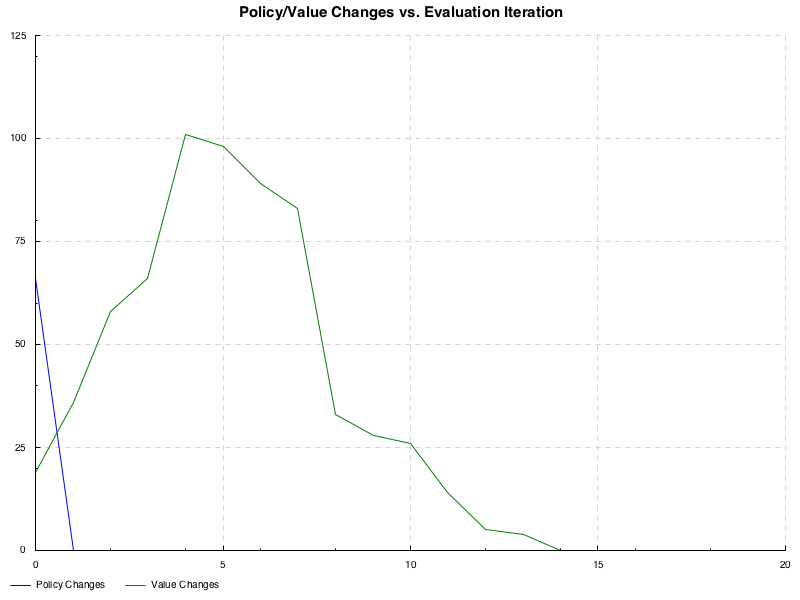
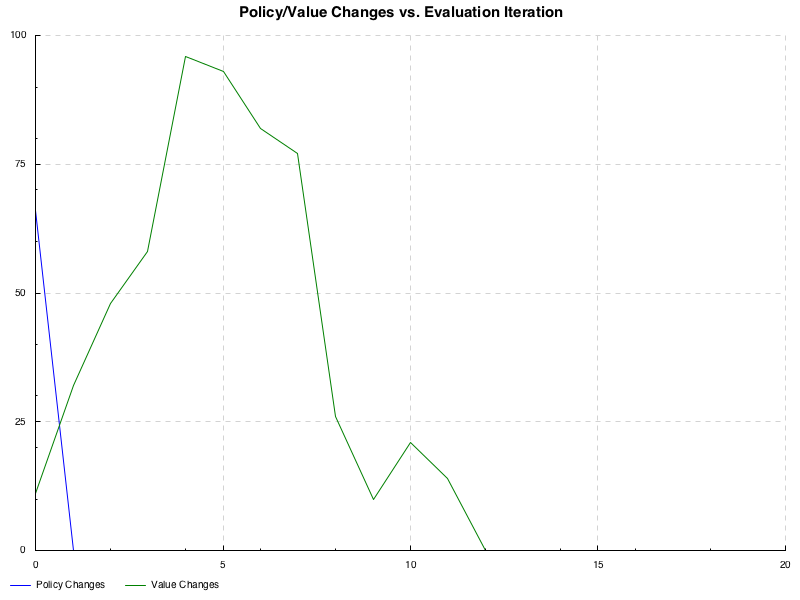
Before making some major changes to reward calculation, as per Ramki.

diff --git a/inventory.html b/inventory.html
@@ -126,35 +126,35 @@ Original date: June 14, 2018</p>
 <a class="sourceLine" id="cb4-57" data-line-number="57"><span class="co">-- | S&#39;(s, a)</span></a>
 <a class="sourceLine" id="cb4-58" data-line-number="58"><span class="ot">nextStates&#39; ::</span> <span class="dt">MyState</span> <span class="ot">-&gt;</span> <span class="dt">MyAction</span> <span class="ot">-&gt;</span> [<span class="dt">MyState</span>]</a>
 <a class="sourceLine" id="cb4-59" data-line-number="59">nextStates&#39; <span class="dt">MyState</span>{<span class="fu">..</span>} toOrder <span class="fu">=</span></a>
-<a class="sourceLine" id="cb4-60" data-line-number="60">  [ <span class="dt">MyState</span> (min gMaxOnHand (onHand <span class="fu">+</span> P.head onOrder <span class="fu">-</span> sold))</a>
-<a class="sourceLine" id="cb4-61" data-line-number="61">            (P.tail onOrder <span class="fu">++</span> [toOrder])</a>
-<a class="sourceLine" id="cb4-62" data-line-number="62">            (epoch <span class="fu">+</span> <span class="dv">1</span>)</a>
-<a class="sourceLine" id="cb4-63" data-line-number="63">  <span class="fu">|</span> sold <span class="ot">&lt;-</span> [<span class="dv">0</span><span class="fu">..</span>onHand]</a>
-<a class="sourceLine" id="cb4-64" data-line-number="64">  <span class="co">-- | sold &lt;- [min onHand 1]</span></a>
-<a class="sourceLine" id="cb4-65" data-line-number="65">  ]</a>
-<a class="sourceLine" id="cb4-66" data-line-number="66"></a>
-<a class="sourceLine" id="cb4-67" data-line-number="67"><span class="co">-- | R(s, a, s&#39;)</span></a>
-<a class="sourceLine" id="cb4-68" data-line-number="68"><span class="co">--</span></a>
-<a class="sourceLine" id="cb4-69" data-line-number="69"><span class="co">-- Returns a list of pairs, each containing:</span></a>
-<a class="sourceLine" id="cb4-70" data-line-number="70"><span class="co">-- - a reward value, and</span></a>
-<a class="sourceLine" id="cb4-71" data-line-number="71"><span class="co">-- - the probability of occurence for that value.</span></a>
+<a class="sourceLine" id="cb4-60" data-line-number="60">  <span class="kw">if</span> length (filter (<span class="fu">&gt;</span> <span class="dv">0</span>) nextOnOrder) <span class="fu">&gt;</span> <span class="dv">1</span></a>
+<a class="sourceLine" id="cb4-61" data-line-number="61">    <span class="kw">then</span> P.error <span class="st">&quot;nextStates&#39;: Found more than one non-zero entries in next onOrder list!&quot;</span></a>
+<a class="sourceLine" id="cb4-62" data-line-number="62">    <span class="kw">else</span> [ <span class="dt">MyState</span> (onHand <span class="fu">+</span> P.head onOrder <span class="fu">-</span> sold)</a>
+<a class="sourceLine" id="cb4-63" data-line-number="63">                   nextOnOrder</a>
+<a class="sourceLine" id="cb4-64" data-line-number="64">                   (epoch <span class="fu">+</span> <span class="dv">1</span>)</a>
+<a class="sourceLine" id="cb4-65" data-line-number="65">         <span class="fu">|</span> sold <span class="ot">&lt;-</span> [<span class="dv">0</span><span class="fu">..</span>onHand]</a>
+<a class="sourceLine" id="cb4-66" data-line-number="66">         , <span class="kw">let</span> onHand&#39; <span class="fu">=</span> onHand <span class="fu">+</span> P.head onOrder <span class="fu">-</span> sold</a>
+<a class="sourceLine" id="cb4-67" data-line-number="67">         , onHand&#39; <span class="fu">&lt;=</span> gMaxOnHand</a>
+<a class="sourceLine" id="cb4-68" data-line-number="68">         ]</a>
+<a class="sourceLine" id="cb4-69" data-line-number="69">  <span class="kw">where</span> nextOnOrder <span class="fu">=</span> P.tail onOrder <span class="fu">++</span> [toOrder]</a>
+<a class="sourceLine" id="cb4-70" data-line-number="70"></a>
+<a class="sourceLine" id="cb4-71" data-line-number="71"><span class="co">-- | R(s, a, s&#39;)</span></a>
 <a class="sourceLine" id="cb4-72" data-line-number="72"><span class="co">--</span></a>
-<a class="sourceLine" id="cb4-73" data-line-number="73"><span class="co">-- Note: Previous requirement that reward values be unique eliminated,</span></a>
-<a class="sourceLine" id="cb4-74" data-line-number="74"><span class="co">--       for coding convenience and runtime performance improvement.</span></a>
-<a class="sourceLine" id="cb4-75" data-line-number="75"><span class="ot">rewards&#39; ::</span> <span class="dt">MyState</span> <span class="ot">-&gt;</span> <span class="dt">MyAction</span> <span class="ot">-&gt;</span> <span class="dt">MyState</span> <span class="ot">-&gt;</span> [(<span class="dt">Double</span>, <span class="dt">Double</span>)]</a>
-<a class="sourceLine" id="cb4-76" data-line-number="76">rewards&#39; <span class="dt">MyState</span>{<span class="fu">..</span>} _ (<span class="dt">MyState</span> onHand&#39; _ _) <span class="fu">=</span></a>
-<a class="sourceLine" id="cb4-77" data-line-number="77">  [ ( gProfit <span class="fu">*</span> fromIntegral sold</a>
-<a class="sourceLine" id="cb4-78" data-line-number="78">      <span class="fu">-</span> gHoldingCost  <span class="fu">*</span> fromIntegral onHand&#39;</a>
-<a class="sourceLine" id="cb4-79" data-line-number="79">      <span class="fu">-</span> gStockOutCost <span class="fu">*</span> fromIntegral missedSales</a>
-<a class="sourceLine" id="cb4-80" data-line-number="80">    <span class="co">-- , pDemand (finite $ fromIntegral demand)</span></a>
-<a class="sourceLine" id="cb4-81" data-line-number="81">    , pDemand demand&#39;</a>
-<a class="sourceLine" id="cb4-82" data-line-number="82">    <span class="co">-- , 1</span></a>
-<a class="sourceLine" id="cb4-83" data-line-number="83">    )</a>
-<a class="sourceLine" id="cb4-84" data-line-number="84">  <span class="co">-- | let demands = [(1,1)]</span></a>
-<a class="sourceLine" id="cb4-85" data-line-number="85">  <span class="fu">|</span> <span class="kw">let</span> demands <span class="fu">=</span> <span class="kw">if</span> onHand&#39; <span class="fu">==</span> P.head onOrder</a>
-<a class="sourceLine" id="cb4-86" data-line-number="86">                     <span class="kw">then</span> [<span class="dv">0</span><span class="fu">..</span>gMaxDemand]</a>
-<a class="sourceLine" id="cb4-87" data-line-number="87">                     <span class="kw">else</span> [onHand <span class="fu">+</span> P.head onOrder <span class="fu">-</span> onHand&#39;]</a>
-<a class="sourceLine" id="cb4-88" data-line-number="88">                     <span class="co">-- else [0]</span></a>
+<a class="sourceLine" id="cb4-73" data-line-number="73"><span class="co">-- Returns a list of pairs, each containing:</span></a>
+<a class="sourceLine" id="cb4-74" data-line-number="74"><span class="co">-- - a reward value, and</span></a>
+<a class="sourceLine" id="cb4-75" data-line-number="75"><span class="co">-- - the probability of occurence for that value.</span></a>
+<a class="sourceLine" id="cb4-76" data-line-number="76"><span class="co">--</span></a>
+<a class="sourceLine" id="cb4-77" data-line-number="77"><span class="co">-- Note: Previous requirement that reward values be unique eliminated,</span></a>
+<a class="sourceLine" id="cb4-78" data-line-number="78"><span class="co">--       for coding convenience and runtime performance improvement.</span></a>
+<a class="sourceLine" id="cb4-79" data-line-number="79"><span class="ot">rewards&#39; ::</span> <span class="dt">MyState</span> <span class="ot">-&gt;</span> <span class="dt">MyAction</span> <span class="ot">-&gt;</span> <span class="dt">MyState</span> <span class="ot">-&gt;</span> [(<span class="dt">Double</span>, <span class="dt">Double</span>)]</a>
+<a class="sourceLine" id="cb4-80" data-line-number="80">rewards&#39; <span class="dt">MyState</span>{<span class="fu">..</span>} _ (<span class="dt">MyState</span> onHand&#39; _ _) <span class="fu">=</span></a>
+<a class="sourceLine" id="cb4-81" data-line-number="81">  [ ( gProfit <span class="fu">*</span> fromIntegral sold</a>
+<a class="sourceLine" id="cb4-82" data-line-number="82">      <span class="fu">-</span> gHoldingCost  <span class="fu">*</span> fromIntegral onHand&#39;</a>
+<a class="sourceLine" id="cb4-83" data-line-number="83">      <span class="fu">-</span> gStockOutCost <span class="fu">*</span> fromIntegral missedSales</a>
+<a class="sourceLine" id="cb4-84" data-line-number="84">    , pDemand demand&#39;</a>
+<a class="sourceLine" id="cb4-85" data-line-number="85">    )</a>
+<a class="sourceLine" id="cb4-86" data-line-number="86">  <span class="fu">|</span> <span class="kw">let</span> demands <span class="fu">=</span> <span class="kw">if</span> onHand&#39; <span class="fu">==</span> P.head onOrder</a>
+<a class="sourceLine" id="cb4-87" data-line-number="87">                     <span class="kw">then</span> [<span class="dv">0</span><span class="fu">..</span>gMaxDemand]</a>
+<a class="sourceLine" id="cb4-88" data-line-number="88">                     <span class="kw">else</span> [onHand <span class="fu">+</span> P.head onOrder <span class="fu">-</span> onHand&#39;]</a>
 <a class="sourceLine" id="cb4-89" data-line-number="89">  , demand <span class="ot">&lt;-</span> demands</a>
 <a class="sourceLine" id="cb4-90" data-line-number="90">  , <span class="kw">let</span> demand&#39; <span class="fu">=</span> <span class="kw">if</span> demand <span class="fu">&gt;</span> <span class="dv">20</span></a>
 <a class="sourceLine" id="cb4-91" data-line-number="91">                     <span class="kw">then</span> P.error (printf <span class="st">&quot;onHand: %d; onOrder: %d; onHand&#39;: %d&quot;</span> onHand (P.head onOrder) onHand&#39;)</a>
@@ -369,27 +369,27 @@ c|c|c|c|c|c
 }
 \text{On Hand} &amp; &amp; &amp; &amp; &amp; &amp;  \\
 \hline
-10 &amp; -161.5 &amp; -214.0 &amp; -205.7 &amp; -168.8 &amp; -138.4 &amp; -122.9 \\
+10 &amp; -158.4 &amp; -156.5 &amp; -121.9 &amp; -99.1 &amp; -92.2 &amp; -95.5 \\
 \hline
-9 &amp; -148.5 &amp; -164.2 &amp; -226.2 &amp; -219.5 &amp; -182.6 &amp; -152.1 \\
+9 &amp; -145.7 &amp; -161.0 &amp; -168.4 &amp; -135.5 &amp; -112.7 &amp; -105.6 \\
 \hline
-8 &amp; -135.3 &amp; -151.1 &amp; -176.3 &amp; -240.0 &amp; -233.3 &amp; -196.1 \\
+8 &amp; -132.8 &amp; -148.3 &amp; -172.9 &amp; -181.9 &amp; -148.9 &amp; -125.9 \\
 \hline
-7 &amp; -121.8 &amp; -137.8 &amp; -163.1 &amp; -189.9 &amp; -253.4 &amp; -246.4 \\
+7 &amp; -119.6 &amp; -135.2 &amp; -160.0 &amp; -186.2 &amp; -195.1 &amp; -161.8 \\
 \hline
-6 &amp; -108.1 &amp; -124.0 &amp; -149.3 &amp; -176.1 &amp; -202.7 &amp; -265.9 \\
+6 &amp; -106.1 &amp; -121.7 &amp; -146.5 &amp; -172.8 &amp; -198.8 &amp; -207.3 \\
 \hline
-5 &amp; -94.1 &amp; -109.7 &amp; -134.7 &amp; -161.3 &amp; -187.6 &amp; -213.5 \\
+5 &amp; -92.4 &amp; -107.7 &amp; -132.2 &amp; -158.2 &amp; -184.0 &amp; -209.4 \\
 \hline
-4 &amp; -79.9 &amp; -94.4 &amp; -118.6 &amp; -144.4 &amp; -169.9 &amp; -195.0 \\
+4 &amp; -78.5 &amp; -92.7 &amp; -116.4 &amp; -141.7 &amp; -166.7 &amp; -191.3 \\
 \hline
-3 &amp; -65.3 &amp; -77.7 &amp; -100.0 &amp; -123.8 &amp; -147.6 &amp; -170.9 \\
+3 &amp; -64.2 &amp; -76.3 &amp; -98.1 &amp; -121.5 &amp; -144.8 &amp; -167.6 \\
 \hline
-2 &amp; -50.8 &amp; -59.3 &amp; -77.9 &amp; -98.2 &amp; -118.4 &amp; -138.3 \\
+2 &amp; -50.0 &amp; -58.3 &amp; -76.5 &amp; -96.4 &amp; -116.2 &amp; -135.7 \\
 \hline
-1 &amp; -38.2 &amp; -42.2 &amp; -55.9 &amp; -71.3 &amp; -86.7 &amp; -101.8 \\
+1 &amp; -37.6 &amp; -41.5 &amp; -54.9 &amp; -70.0 &amp; -85.1 &amp; -99.9 \\
 \hline
-0 &amp; -36.3 &amp; -39.0 &amp; -51.2 &amp; -65.2 &amp; -79.1 &amp; -92.8 \\
+0 &amp; -35.8 &amp; -38.4 &amp; -50.4 &amp; -64.1 &amp; -77.7 &amp; -91.1 \\
 \hline
 \text{On Order:}  &amp; 0 &amp; 1 &amp; 2 &amp; 3 &amp; 4 &amp; 5
 \end{array}\]</span>
@@ -400,15 +400,15 @@ c|c|c|c|c|c
 }
 \text{On Hand} &amp; &amp; &amp; &amp; &amp; &amp;  \\
 \hline
-10 &amp; -0.7 &amp; -1.1 &amp; -1.1 &amp; -0.9 &amp; -0.7 &amp; -0.7 \\
+10 &amp; -0.7 &amp; -0.9 &amp; -0.8 &amp; -0.7 &amp; -0.7 &amp; -0.9 \\
 \hline
-9 &amp; -0.7 &amp; -0.9 &amp; -1.3 &amp; -1.3 &amp; -1.1 &amp; -0.9 \\
+9 &amp; -0.7 &amp; -0.9 &amp; -1.1 &amp; -1.0 &amp; -0.9 &amp; -1.0 \\
 \hline
-8 &amp; -0.7 &amp; -0.9 &amp; -1.1 &amp; -1.6 &amp; -1.6 &amp; -1.3 \\
+8 &amp; -0.7 &amp; -0.9 &amp; -1.1 &amp; -1.4 &amp; -1.3 &amp; -1.3 \\
 \hline
-7 &amp; -0.6 &amp; -0.9 &amp; -1.1 &amp; -1.4 &amp; -1.9 &amp; -1.9 \\
+7 &amp; -0.6 &amp; -0.9 &amp; -1.1 &amp; -1.4 &amp; -1.7 &amp; -1.6 \\
 \hline
-6 &amp; -0.6 &amp; -0.9 &amp; -1.1 &amp; -1.4 &amp; -1.7 &amp; -2.3 \\
+6 &amp; -0.6 &amp; -0.9 &amp; -1.1 &amp; -1.4 &amp; -1.7 &amp; -2.1 \\
 \hline
 5 &amp; -0.5 &amp; -0.9 &amp; -1.2 &amp; -1.5 &amp; -1.8 &amp; -2.1 \\
 \hline
